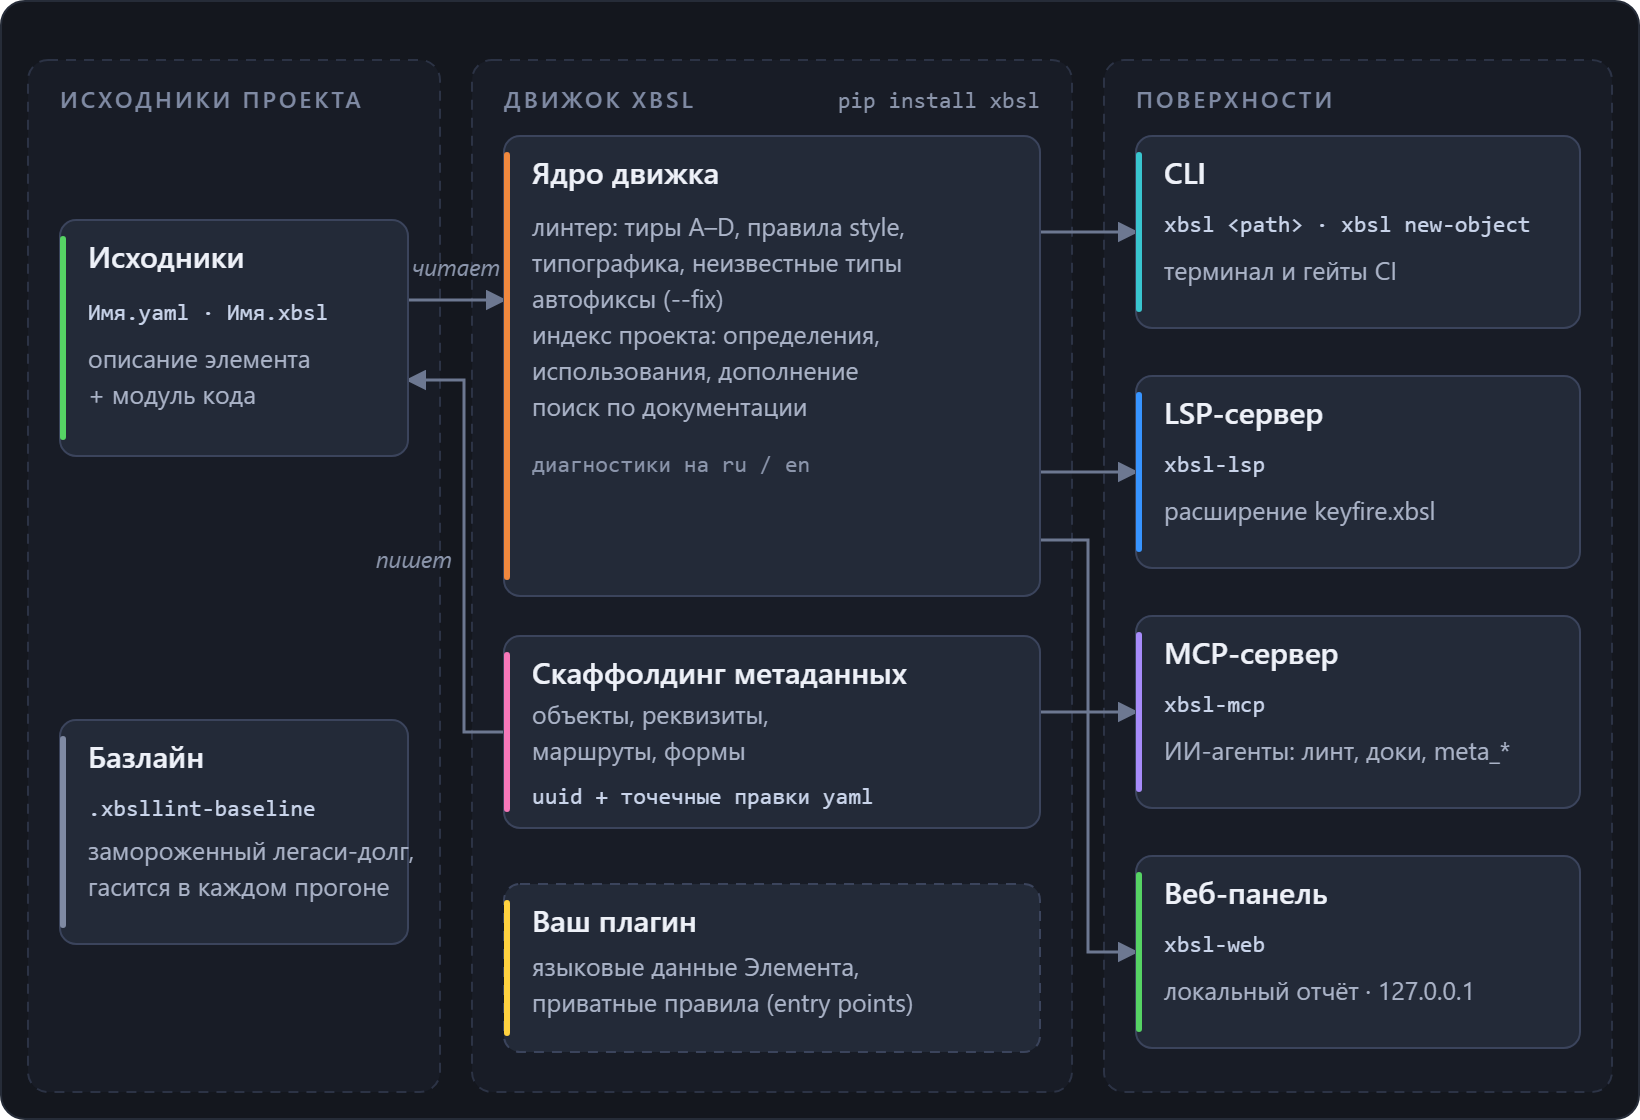
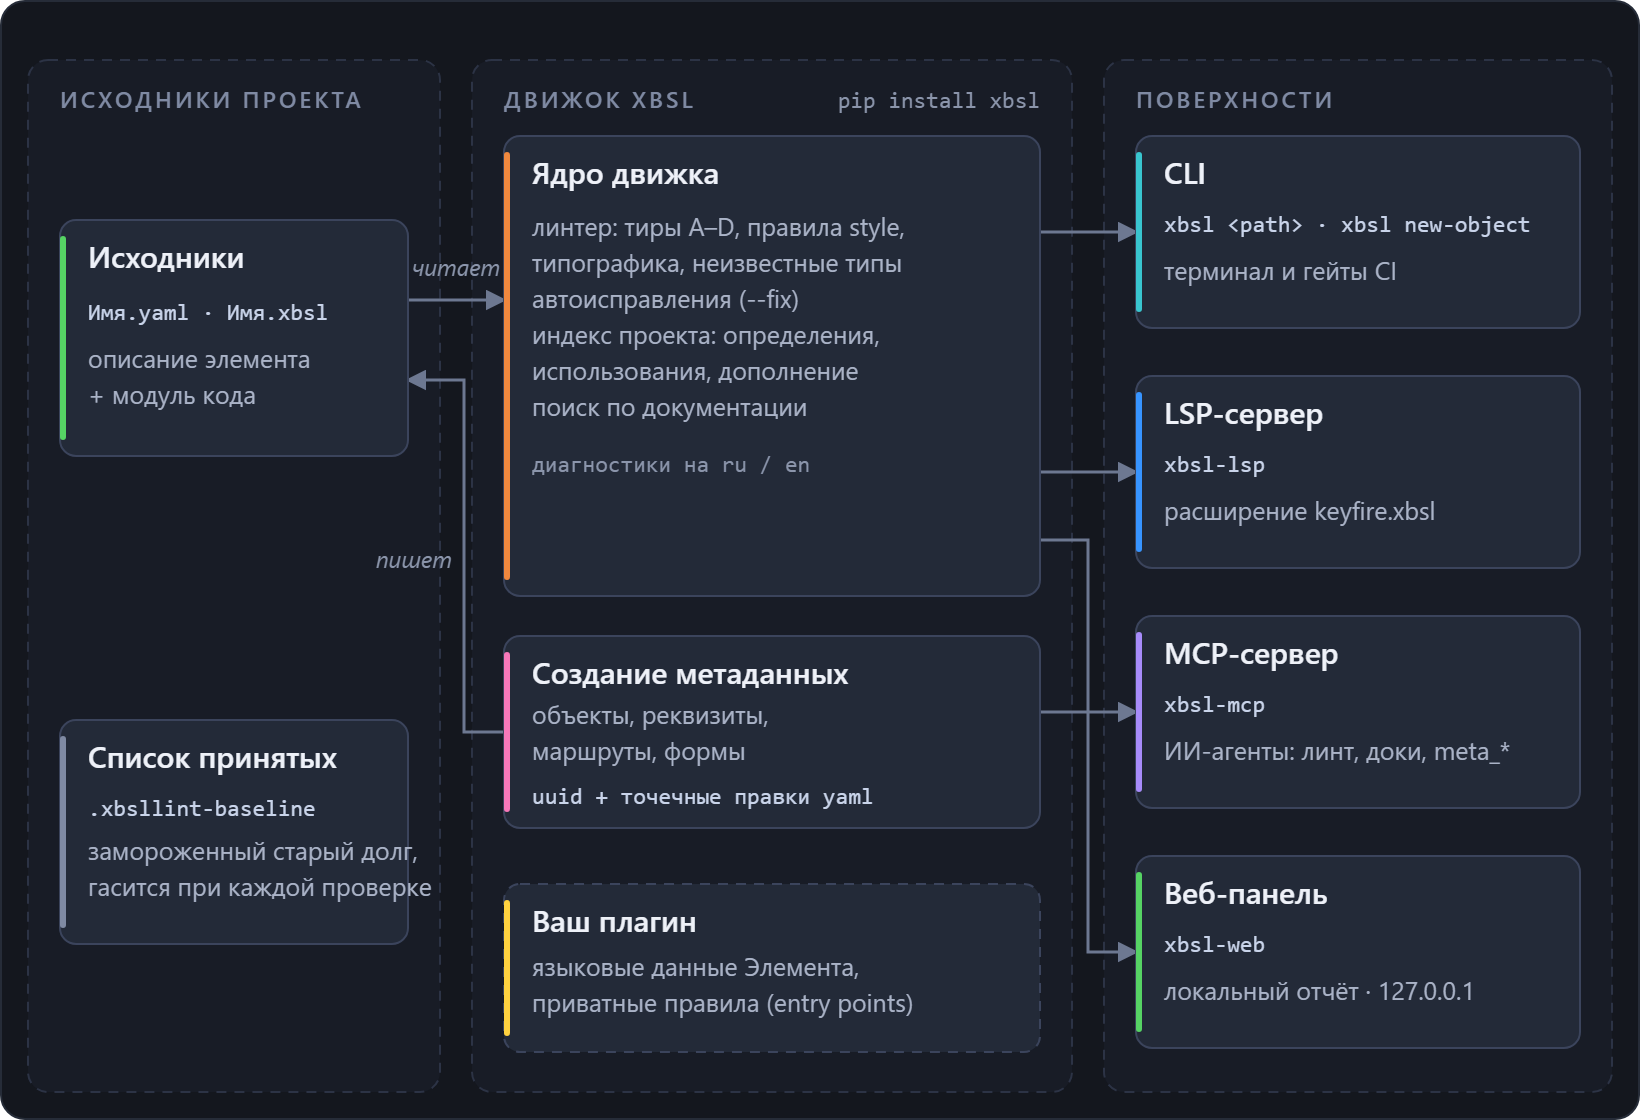
Цитаты сообщений в документации и схемах догнали сами сообщения
После переписывания строк движка страницы продолжали цитировать старый
вывод: "Набор прогона", "джоба xbsl-lint", "записей базлайна не проверено".
Ссылка из описания настройки вела на переименованный заголовок.

Сообщение "СУХОЙ ПРОГОН" переименовано в "Пробный запуск". На схемах блок
"Базлайн" стал списком принятых, а скрипт перерисовки теперь видит оба
каталога схем: корневой он не трогал, и картинка в README расходилась с
исходником.

diff --git a/scripts/render-diagrams.py b/scripts/render-diagrams.py
@@ -30,7 +30,10 @@ import tempfile
 from pathlib import Path
 
 ROOT = Path(__file__).resolve().parent.parent
-IMAGES = ROOT / "editors" / "vscode" / "images"
+#: Both folders with diagrams. The root one feeds the README that GitHub and PyPI show, the
+#: extension one feeds the Marketplace page. Only the second was rendered here until
+#: 12.09.2026, and the README kept a PNG whose box carried a word the SVG no longer had.
+IMAGE_DIRS = (ROOT / "images", ROOT / "editors" / "vscode" / "images")
 
 CHROME_CANDIDATES = [
     r"C:\Program Files\Google\Chrome\Application\chrome.exe",
@@ -98,20 +101,27 @@ def main() -> int:
     parser = argparse.ArgumentParser(description=__doc__.splitlines()[0])
     parser.add_argument("--theme", choices=("dark", "light"), default="dark",
                         help="палитра рендера (по умолчанию dark)")
-    parser.add_argument("--only", help="имя одного файла .svg в images/")
+    parser.add_argument("--only", help="имя одного файла .svg в любом из каталогов схем")
     parser.add_argument("--chrome", help="путь к Chrome/Chromium")
     args = parser.parse_args()
 
     chrome = find_chrome(args.chrome)
-    sources = [IMAGES / args.only] if args.only else sorted(
-        p for p in IMAGES.glob("*.svg") if _DARK_BLOCK.search(p.read_text(encoding="utf-8"))
-    )
+    if args.only:
+        sources = [folder / args.only for folder in IMAGE_DIRS
+                   if (folder / args.only).is_file()]
+    else:
+        sources = sorted(
+            (found for folder in IMAGE_DIRS for found in folder.glob("*.svg")
+             if _DARK_BLOCK.search(found.read_text(encoding="utf-8"))),
+            key=lambda found: (found.parent.name, found.name),
+        )
     if not sources:
-        print("нечего рендерить: в images/ нет схем с палитрой в переменных")
+        print("нечего рендерить: схем с палитрой в переменных не нашлось")
         return 0
     for source in sources:
         out = render(chrome, source, args.theme)
-        print(f"{source.name} -> {out.name} ({out.stat().st_size // 1024} КБ, {args.theme})")
+        print(f"{source.relative_to(ROOT).as_posix()} -> {out.name} "
+              f"({out.stat().st_size // 1024} КБ, {args.theme})")
     return 0
 
 

diff --git a/tests/test_translate.py b/tests/test_translate.py
@@ -700,7 +700,7 @@ def test_a_dry_run_names_the_leftovers_and_takes_nothing_out(tmp_path: Path, cap
     assert _cli([*argv, "--clean", "--dry-run"]) == 0
 
     said = capsys.readouterr().out
-    assert "СУХОЙ ПРОГОН" in said and "Забытый.yaml" in said
+    assert "Пробный запуск" in said and "Забытый.yaml" in said
     assert "будет убрано остатков прошлого запуска: 1" in said
     assert orphan.is_file()  # named, not taken
 

diff --git a/xbsl/translation/cli.py b/xbsl/translation/cli.py
@@ -266,7 +266,7 @@ MESSAGES = {
               " to show",
     },
     "translate.dry-run": {
-        "ru": "СУХОЙ ПРОГОН: ничего не записано и не убрано",
+        "ru": "Пробный запуск: ничего не записано и не убрано",
         "en": "DRY RUN: nothing written and nothing removed",
     },
     "translate.would-write": {

diff --git a/editors/vscode/CHANGELOG.ru.md b/editors/vscode/CHANGELOG.ru.md
@@ -924,7 +924,7 @@
 
 ## 0.18.0
 
-- **Пункт лампочки `Исключить эту находку (в базлайн)` у каждой находки:** причина и идентичность
+- **Пункт лампочки `Исключить эту находку (в список принятых)` у каждой находки:** причина и идентичность
   находки записываются в файл со списком принятых замечаний. Исключается только эта находка –
   правило продолжает проверять остальной проект.
 - **Список принятых замечаний действует на все проверки расширения** – по рабочей области,

diff --git a/docs/translation.ru.md b/docs/translation.ru.md
@@ -212,9 +212,9 @@ xbsl translate e1c/app --out build --clean --dry-run
 ```
 
 ```
-СУХОЙ ПРОГОН: ничего не записано и не убрано
+Пробный запуск: ничего не записано и не убрано
 будет записано файлов: 1261 -> build/Acme/TaskBook
-будет убрано остатков прошлого прогона: 2
+будет убрано остатков прошлого запуска: 2
   Формы/СтараяФорма.yaml
   Основное/Ресурсы/percent.svg
 ```
